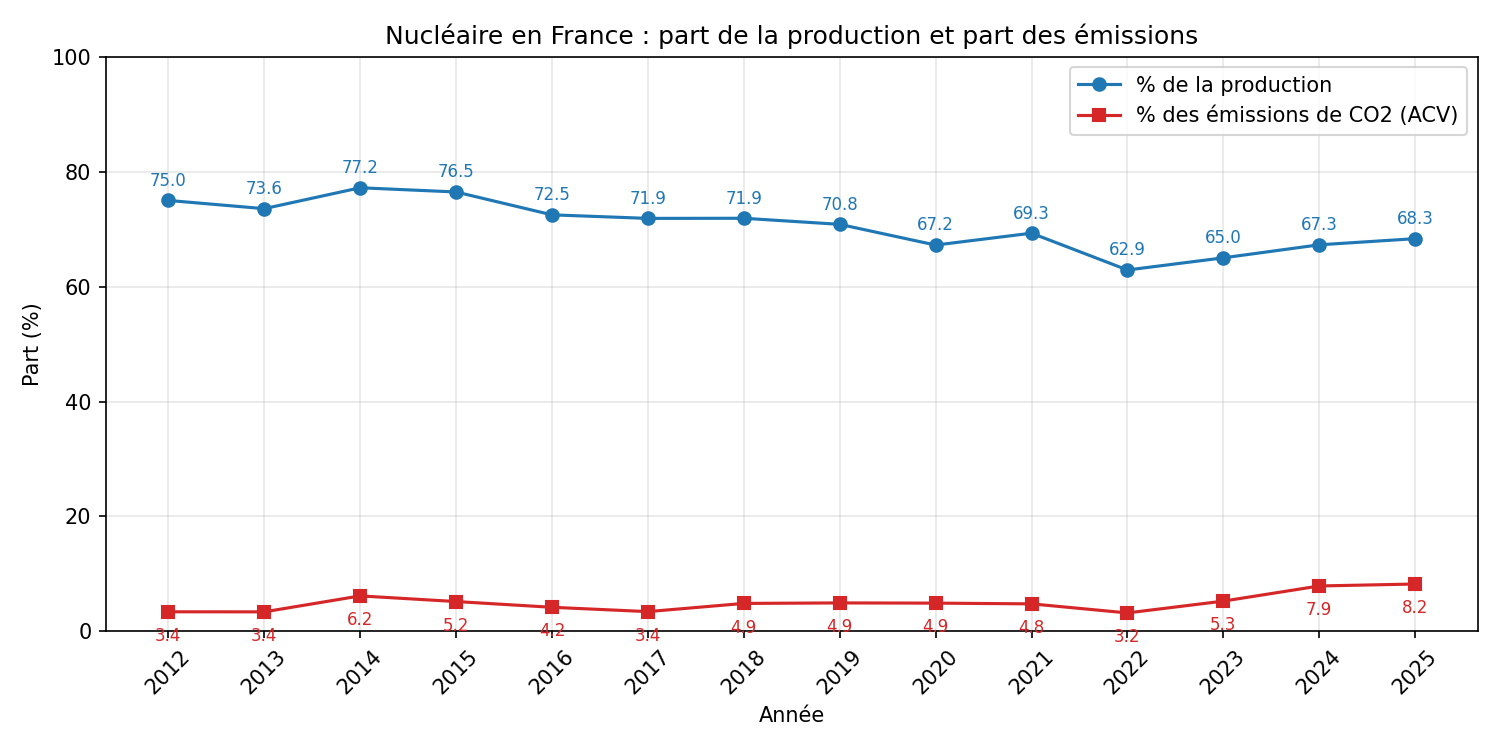
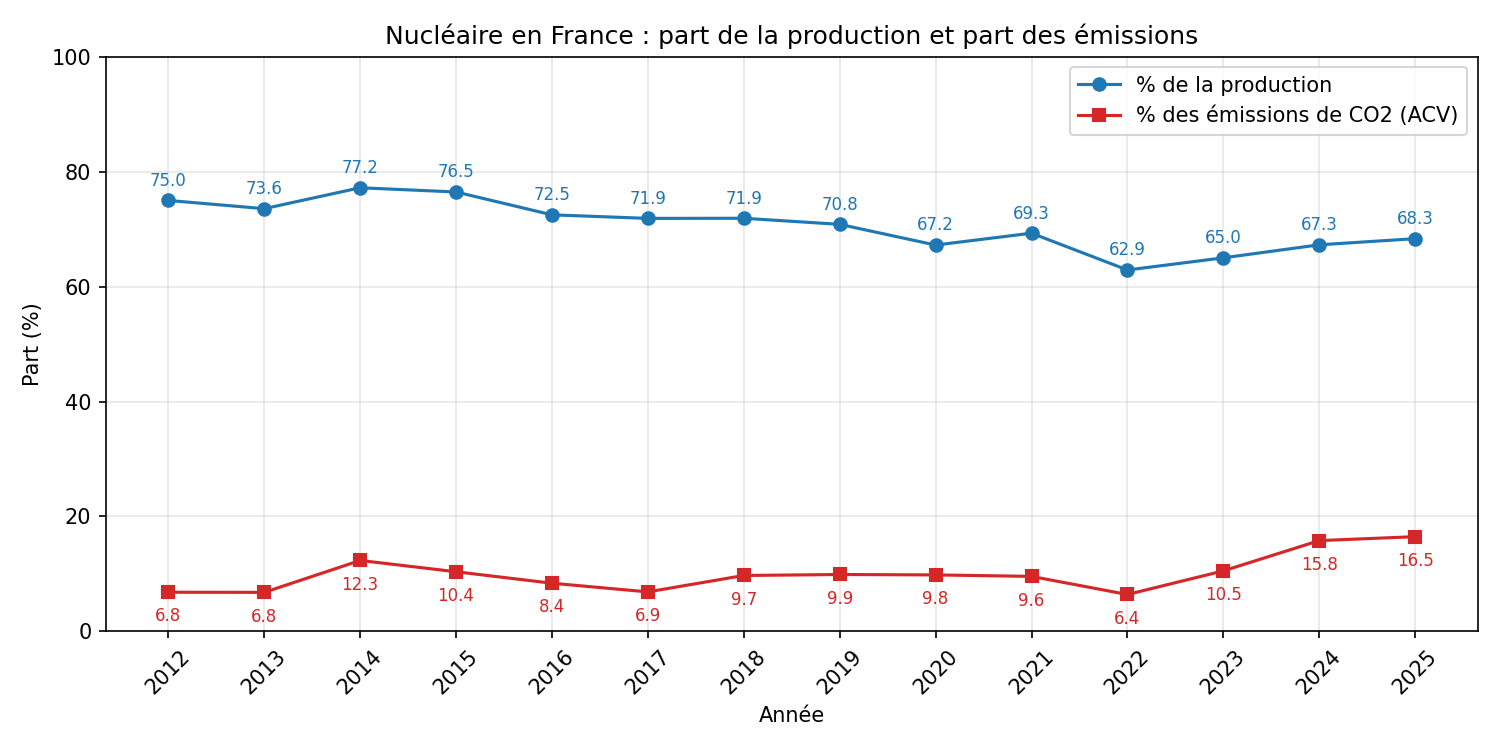
adding new analyses and correction of an operation

Changed region(s): [[0.092, 0.7053, 0.9507, 0.8587]]

diff --git a/README.md b/README.md
@@ -17,7 +17,12 @@ Sous-questions :
 ### 1. Émissions de CO₂e du mix par filière
 ![Émissions par filière](figures/co2_par_filiere.png)
 
-Les émissions du mix passent de **35,7 MtCO₂e en 2012 à 13,6 MtCO₂e en 2025**. Le gaz et le charbon dominent chaque année. En 2017, ils représentent environ 9 % de la production mais **81 %** des émissions (gaz 49,9 %, charbon 31,1 %).
+Les émissions du mix passent de **35,7 MtCO₂e en 2012 à 13,6 MtCO₂e en 2025**.
+
+Le gaz et le charbon dominent les émissions chaque année. En 2017, ils représentent environ 9 % de la production mais **81 %** des émissions (gaz 49,9 %, charbon 31,1 %). Le nucléaire, lui, représente 71,9 % de la production pour seulement **6,9 %** des émissions.
+
+Le nucléaire a donc produit **7,7 fois plus d'énergie** que le gaz et le charbon réunis, tout en émettant **environ 91 fois moins de CO₂e pour chaque unité d'énergie produite**.
+
 
 ### 2. Part du nucléaire : production vs émissions
 ![Nucléaire : production vs émissions](figures/nucleaire_production_vs_co2.png)
